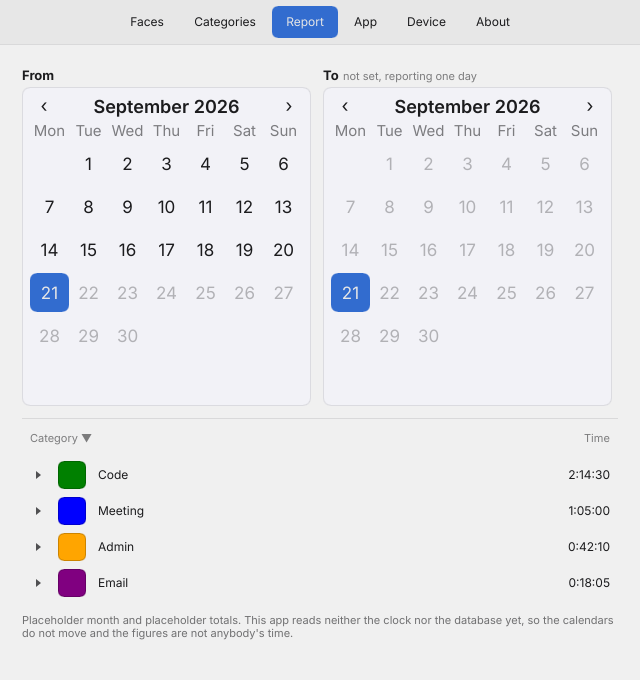
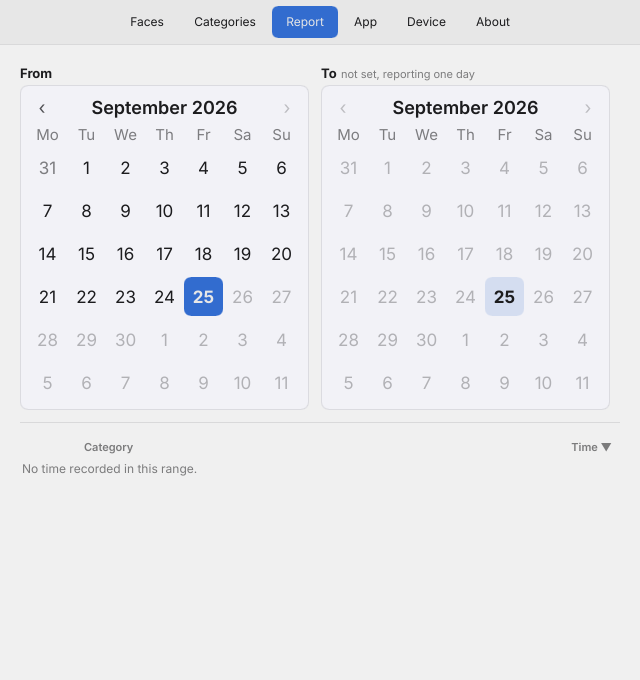
Render the Report tab from the database on a fixed day, and re-render the Mac set
The Report draws today, so a render changed from day to day and two
machines rendering on different days could never match. Report takes an
injected clock (attach_with_clock; attach uses the system clock), and
draw-settings-tabs passes FACET_NOW to it, whole unix seconds.

Against a test database rebuilt from the DDL with FACET_NOW at noon on
25 September 2026, only 3-report.png changed: September 2026 in both
calendars, the 25th picked in From with later days dimmed and Next
disabled, the 25th alone allowed and tinted in To under "not set,
reporting one day", Time sorted descending, and "No time recorded in
this range." The other five are byte-identical to the committed set.
The README gives the commands and marks compare/ stale for that image.

diff --git a/crates/facet-ui/examples/draw-settings-tabs.rs b/crates/facet-ui/examples/draw-settings-tabs.rs
@@ -18,9 +18,10 @@
 //!     FACET_TAB_HEIGHT=1200 cargo run -p facet-ui --example draw-settings-tabs
 //!     FACET_DATABASE=path/to/appdata.sqlite cargo run -p facet-ui --example draw-settings-tabs
 //!
-//! FACET_DATABASE fills the Faces and Categories tabs from that database, which must already exist. Rendering
-//! it may finalise segments an earlier launch left open on an app face, as launching the app does. Without it
-//! those tabs draw with no categories.
+//! FACET_DATABASE fills the Faces, Categories and Report tabs from that database, which must already exist.
+//! Rendering it may finalise segments an earlier launch left open on an app face, as launching the app does.
+//! Without it those tabs draw empty. FACET_NOW, whole unix seconds, fixes the day the Report opens on, so two
+//! machines render the same calendars; without it the Report opens on today.
 //!
 //! Writes target/settings-tabs/<n>-<tab>.png, one per tab, numbered from 1 in tab order so a listing sorts the
 //! way the window reads. The default height is the one the window opens at, so
@@ -89,20 +90,28 @@ fn main() -> Result<(), Box<dyn std::error::Error>> {
 
     let width = 640u32;
     let ui = SettingsWindow::new()?;
+    let fixed_now: Option<i64> = std::env::var("FACET_NOW").ok().map(|value| value.parse()).transpose()?;
     let tabs = std::env::var_os("FACET_DATABASE").map(|path| {
         let path: std::path::PathBuf = path.into();
         let notice = facet_ui::notice::Notice::attach(&ui);
         let faces =
             facet_ui::faces::Faces::attach(&ui, path.clone(), Rc::new(None), true, Rc::clone(&notice));
-        let categories = facet_ui::categories::Categories::attach(&ui, path, Rc::new(None), notice);
-        (faces, categories)
+        let categories = facet_ui::categories::Categories::attach(&ui, path.clone(), Rc::new(None), notice);
+        let report = match fixed_now {
+            Some(seconds) => {
+                facet_ui::report::Report::attach_with_clock(&ui, path, Rc::new(None), move || seconds)
+            }
+            None => facet_ui::report::Report::attach(&ui, path, Rc::new(None)),
+        };
+        (faces, categories, report)
     });
     ui.window().set_size(LogicalSize::new(width as f32, height as f32));
     window.set_size(PhysicalSize::new(width, height));
     ui.show()?;
-    if let Some((faces, categories)) = &tabs {
+    if let Some((faces, categories, report)) = &tabs {
         faces.refresh();
         categories.refresh();
+        report.open();
     }
 
     // **Emptied first**, so a tab that is renamed or renumbered does not leave its old file beside the new one

diff --git a/crates/facet-ui/src/report.rs b/crates/facet-ui/src/report.rs
@@ -39,12 +39,25 @@ pub struct Report {
     /// [`Report::refresh_if_showing`] redraws only when an entry has been recorded since. Read back from the
     /// table every time it is asked; a stale value costs one redraw.
     drawn_entries: Cell<Option<(i64, i64)>>,
+    /// Whole unix seconds now.
+    clock: Box<dyn Fn() -> i64>,
     this: RefCell<Weak<Report>>,
 }
 
 impl Report {
-    /// Wires the tab's callbacks on `ui` to `database`. Call once, at launch.
+    /// Wires the tab's callbacks on `ui` to `database`, telling the time by the system clock. Call once, at
+    /// launch.
     pub fn attach(ui: &SettingsWindow, database: PathBuf, log: Rc<Option<DebugLog>>) -> Rc<Report> {
+        Report::attach_with_clock(ui, database, log, now)
+    }
+
+    /// As [`Report::attach`], telling the time by `clock`, which answers whole unix seconds.
+    pub fn attach_with_clock(
+        ui: &SettingsWindow,
+        database: PathBuf,
+        log: Rc<Option<DebugLog>>,
+        clock: impl Fn() -> i64 + 'static,
+    ) -> Rc<Report> {
         let report = Rc::new(Report {
             ui: ui.as_weak(),
             database,
@@ -55,6 +68,7 @@ impl Report {
             order: Cell::new(SortOrder::default()),
             expanded: RefCell::new(HashSet::new()),
             drawn_entries: Cell::new(None),
+            clock: Box::new(clock),
             this: RefCell::new(Weak::new()),
         });
         *report.this.borrow_mut() = Rc::downgrade(&report);
@@ -101,7 +115,7 @@ impl Report {
     /// shown.
     pub fn refresh(&self) {
         let Some(connection) = self.connect() else { return };
-        let Some(today) = self.report(report::today(&connection, now())) else { return };
+        let Some(today) = self.report(report::today(&connection, (self.clock)())) else { return };
         let (start, end) = match self.range.get() {
             Some(range) => range,
             None => {
@@ -152,7 +166,7 @@ impl Report {
 
     fn month_stepped(&self, calendar: &str, delta: i64) {
         let Some(connection) = self.connect() else { return };
-        let Some(today) = self.report(report::today(&connection, now())) else { return };
+        let Some(today) = self.report(report::today(&connection, (self.clock)())) else { return };
         let Some((start, end)) = self.range.get() else { return };
         let is_from = calendar == "from";
         let shown = if is_from { self.shown_from(today, start) } else { self.shown_to(today, start, end) };

diff --git a/docs/settings-tabs/README.md b/docs/settings-tabs/README.md
@@ -7,6 +7,7 @@ structurally true is not the same as true.
 
 ```sh
 scripts/switch-database.sh test -clean
+FACET_NOW=$(sqlite3 :memory: "SELECT CAST(strftime('%s','2026-09-25 12:00:00','utc') AS INTEGER)") \
 FACET_DATABASE="<data directory>/appdata.sqlite" cargo run -p facet-ui --example draw-settings-tabs
 ```
 
@@ -27,16 +28,18 @@ same number means the same tab on both machines and in `compare/`. The example e
 copied in beside the new one. The data directory is
 `~/Library/Application Support/Facet` on the Mac and `~/.local/share/Facet` on Linux.
 
-**The Faces and Categories tabs are drawn from a freshly built test database**, so both machines render the same rows: the
+**The Faces, Categories and Report tabs are drawn from a freshly built test database**, so both machines render the same rows: the
 seeded Break and Meeting, with their icons, and nothing being timed. Without `FACET_DATABASE` the tab draws
 no categories at all, and a database with anything else in it draws something the other machine cannot
 reproduce.
 
+**The Report opens on the day `FACET_NOW` names**, noon on 25 September 2026 local time above, so its calendars are the same on both machines whatever day they render on.
+
 | | |
 |---|---|
 | [`linux/`](linux/) | Linux Mint 22.3, MATE 1.26.1, X11, `x86_64`. Rendered 2026-09-25 on `feature/catergoryTab` at `4f7690c`, against a clean test database. `2-categories.png` is the Categories tab read from the database; the other five came out byte-identical to the set before |
-| [`mac/`](mac/) | macOS 26.6.2, Apple silicon, `arm64`. Rendered 2026-09-25 on `feature/catergoryTab` at `e5992ef`, against a clean test database. `2-categories.png` is the Categories tab read from the database; the other five are unchanged |
-| [`compare/`](compare/) | One image per tab: Mac, Linux, and the pixels that differ between them. Rebuilt 2026-09-25 from Mac `e5992ef` and Linux `4f7690c`; every diff panel is empty, and all six PNGs are byte-identical across the two machines, `2-categories.png` with its icons, disabled checkbox and stepper included |
+| [`mac/`](mac/) | macOS 26.6.2, Apple silicon, `arm64`. Rendered 2026-09-26 on `feature/reportTab` at `3189bac`, against a clean test database with `FACET_NOW` at noon on 25 September 2026. `3-report.png` is the Report tab read from the database; the other five are unchanged |
+| [`compare/`](compare/) | One image per tab: Mac, Linux, and the pixels that differ between them. Rebuilt 2026-09-25 from Mac `e5992ef` and Linux `4f7690c`; every diff panel is empty, and all six PNGs are byte-identical across the two machines, `2-categories.png` with its icons, disabled checkbox and stepper included **Stale for `3-report.png`** until `linux/` is re-rendered on `feature/reportTab` |
 
 **These are Slint's software renderer, not screenshots of the running app.** It draws into a buffer with
 no window server involved, so window chrome and compositing are out of the comparison.
